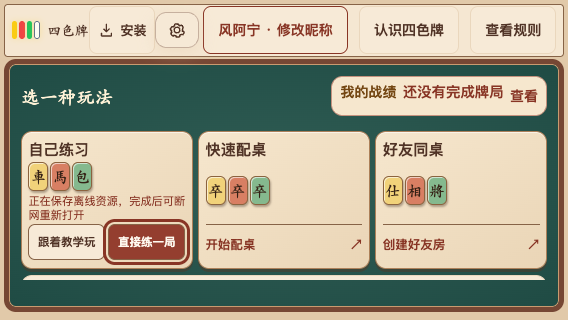
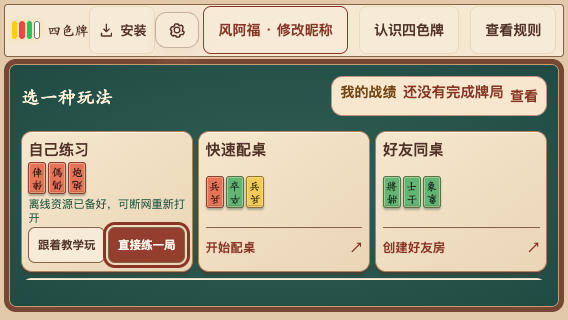
fix(lobby): show legal melds on double-ended paper cards (#102)
* fix(lobby): show legal same-color melds on double-ended paper cards

* test(ci): inject reconnect landings after the accepted room revision

diff --git a/client/src/components/LobbyPage.vue b/client/src/components/LobbyPage.vue
@@ -66,7 +66,9 @@
       <div v-if="modes.length" class="mode-grid">
         <article class="mode-card practice-card">
           <div class="mode-head"><strong>自己练习</strong><span>从容入门</span></div>
-          <div class="mode-tiles" aria-hidden="true"><i>車</i><i>馬</i><i>包</i></div>
+          <div class="mode-tiles" aria-hidden="true">
+            <CardComp v-for="card in meldExamples.jmp" :key="card.id" :card="card" preview mode="long" size="sm" />
+          </div>
           <p>跟着教学认识牌，或直接和电脑练一局</p>
           <small class="offline-readiness" :data-state="offlineReadinessState" data-testid="offline-readiness" role="status" aria-live="polite">{{ offlineReadinessLabel }}</small>
           <div class="practice-actions">
@@ -88,7 +90,10 @@
             <strong>{{ mode.name }}</strong>
             <span>{{ startPending && selectedMode === mode.id ? "正在进入…" : mode.badge }}</span>
           </div>
-          <div class="mode-tiles" aria-hidden="true"><i>{{ mode.id === 'quick_match' ? '卒' : '仕' }}</i><i>{{ mode.id === 'quick_match' ? '卒' : '相' }}</i><i>{{ mode.id === 'quick_match' ? '卒' : '將' }}</i></div>
+          <div class="mode-tiles" aria-hidden="true">
+            <CardComp v-for="card in mode.id === 'quick_match' ? meldExamples.zu3 : meldExamples.jsx"
+              :key="card.id" :card="card" preview mode="long" size="sm" />
+          </div>
           <p>{{ mode.description }}</p>
           <span class="mode-enter">{{ mode.id === "friends" ? "创建好友房" : mode.id === "quick_match" ? "开始配桌" : "直接练一局" }} <span aria-hidden="true">↗</span></span>
         </button>
@@ -473,6 +478,8 @@
 
 <script setup lang="ts">
 import { computed, nextTick, onUnmounted, ref, watch } from "vue";
+import CardComp from "./Card.vue";
+import { meldExamples } from "@/utils/cardExamples";
 import type { ScoringMode } from "@/types/game";
 
 type LobbyMode = {
@@ -1945,14 +1952,13 @@ function trapLeaveFocus(event: KeyboardEvent): void {
 .practice-actions button { flex: 1; min-width: 0; min-height: 42px; padding: .4rem; border: 1px solid var(--ui-border); border-radius: 7px; background: var(--ui-panel); color: var(--ui-text); font-weight: 700; cursor: pointer; }
 .practice-actions button:last-child { background: var(--ui-accent); color: #fffaf0; }
 .mode-tiles { display: flex; gap: 4px; margin: .35rem 0; }
-.mode-tiles i { display: grid; place-items: center; width: 30px; height: 45px; border: 1px solid #8b633f; border-radius: 9px; background: #f1d27a; color: #352115; box-shadow: inset 1px 1px #fff9, 1px 2px 2px #28170b55; font: bold 22px var(--skin-font, serif); font-style: normal; }
-.mode-tiles i:nth-child(2) { background: #d87f63; }
-.mode-tiles i:nth-child(3) { background: #85b98e; }
+.mode-tiles .card { width: 24px; height: 46px; border-radius: 3px; font-size: 16px; }
 :global(html[data-skin="puxian-house"] .lobby.mode-selection) { background: radial-gradient(ellipse at center, #315e55, #1f4b44) #1f4b44 !important; border: 5px solid #764734 !important; box-shadow: inset 0 0 0 1px #c99a70; }
 :global(html[data-skin="puxian-house"] .mode-selection .lobby-head h2) { color: #fff2d7; }
 :global(html[data-skin="puxian-house"] .mode-selection .lobby-kicker),
 :global(html[data-skin="puxian-house"] .mode-selection .lobby-rule-tip) { color: #e6d3b4; }
 :global(html[data-skin="puxian-house"] .mode-selection .mode-card) { background: linear-gradient(145deg, #f6e7ce, #ead5b6) #ead5b6; border: 1px solid #ac8059; box-shadow: inset 0 1px #fff9, 0 3px 0 #53352477; }
+:global(html[data-skin="puxian-house"] .mode-selection .practice-card) { --ui-success-text: #245b43; }
 :global(html[data-skin="puxian-house"] .mode-selection .mode-share-card) { background-color: #f6e7ce; }
 :global(html[data-skin="puxian-house"] .mode-selection .guest-profile-summary) { background: #f6e7ce; }
 :global(html[data-skin="puxian-house"] .mode-selection .repository-link) { color: #f6dfb8; }
@@ -1966,7 +1972,7 @@ function trapLeaveFocus(event: KeyboardEvent): void {
   .mode-selection .mode-grid { grid-template-columns: repeat(3, minmax(0, 1fr)); gap: .35rem; }
   .mode-selection .mode-card { min-height: 0; gap: .15rem; }
   .mode-selection .mode-tiles { margin: 0; gap: 2px; }
-  .mode-selection .mode-tiles i { width: 20px; height: 29px; font-size: 15px; border-radius: 6px; }
+  .mode-selection .mode-tiles .card { width: 18px; height: 32px; font-size: 11px; }
   .mode-selection .practice-actions { gap: .2rem; }
   .mode-selection .practice-actions button { min-height: 36px; padding: .2rem; font-size: .72rem; }
 }

diff --git a/tests/e2e/paper-sounds.spec.ts b/tests/e2e/paper-sounds.spec.ts
@@ -7,6 +7,7 @@ type SoundWindow = Window & {
   __siseLocalTest: {
     setupScenario: (scenario: string) => void;
     getRoomState: () => RoomStateSnapshot;
+    getDeferredChiDebug: () => { stateRevision: number };
     applyRoomSnapshot: (snapshot: Partial<RoomStateSnapshot>) => void;
   };
 };
@@ -100,20 +101,34 @@ test("the first authoritative reconnect snapshot establishes a silent sound base
     const state = bridge.getRoomState();
     const events = state.tableTransitions ?? [];
     const now = Date.now() + (state.presentationClockOffsetMs ?? 0);
+    // Identical public snapshots can advance the accepted revision without replacing the rendered state.
+    const stateRevision = bridge.getDeferredChiDebug().stateRevision + 1;
+    const eventId = (events.at(-1)?.id ?? 0) + 1;
     const card = { id: "paper-contact", color: "white", type: "zu" };
     bridge.applyRoomSnapshot({
-      stateRevision: state.stateRevision + 1,
+      stateRevision,
       serverNow: now,
       tableTransitions: [...events, {
-        id: (events.at(-1)?.id ?? 0) + 1, round: state.completedRounds + 1,
+        id: eventId, round: state.completedRounds + 1,
         kind: "discard", startsAt: now, endsAt: now + 700,
         moves: [{ card, from: { zone: "hand" }, to: { zone: "center" } }],
       }],
     });
+    const applied = bridge.getRoomState();
+    return {
+      stateRevision,
+      eventId,
+      appliedRevision: applied.stateRevision,
+      appliedEventId: applied.tableTransitions?.at(-1)?.id,
+    };
   });
-  await appendLanding(); // A retained public move arrives on the new connection.
+  const baseline = await appendLanding(); // A retained public move arrives on the new connection.
+  expect(baseline.appliedRevision).toBe(baseline.stateRevision);
+  expect(baseline.appliedEventId).toBe(baseline.eventId);
   await page.waitForTimeout(750);
   expect(await contactDurations(page)).toEqual([]);
-  await appendLanding(); // An actual subsequent move still sounds normally.
+  const next = await appendLanding(); // An actual subsequent move still sounds normally.
+  expect(next.appliedRevision).toBe(next.stateRevision);
+  expect(next.appliedEventId).toBe(baseline.eventId + 1);
   await expect.poll(() => contactDurations(page)).toEqual([85]);
 });

diff --git a/client/src/components/RulesGuide.vue b/client/src/components/RulesGuide.vue
@@ -38,18 +38,17 @@
 </template>
 <script setup lang="ts">
 import CardComp from './Card.vue';
-import type { Card } from '@/types/game';
+import { exampleCards, meldExamples } from '@/utils/cardExamples';
 defineProps<{ phase?: string }>();
-function cards(color: string, types: string[]): Card[] { return types.map((type, i) => ({ id: `${color}-${type}-${i}`, color, type })); }
 const examples = [
-  { title: '同色车马炮', valid: true, cards: cards('red', ['ju', 'ma', 'pao']), note: '三种字各一张，必须同色。' },
-  { title: '同色将士象', valid: true, cards: cards('green', ['jiang', 'shi', 'xiang']), note: '三种字各一张，必须同色。' },
-  { title: '不同色的卒', valid: true, cards: ['red', 'green', 'yellow'].map((color) => ({ id: color, color, type: 'zu' })), note: '三种或四种不同颜色的卒可以成组。' },
-  { title: '对子、坎、鱼', valid: true, cards: cards('white', ['ma', 'ma', 'ma', 'ma']), note: '同色同字：2 张是对子，3 张可作为坎，4 张可声明鱼。图中是鱼。' },
+  { title: '同色车马炮', valid: true, cards: meldExamples.jmp, note: '三种字各一张，必须同色。' },
+  { title: '同色将士象', valid: true, cards: meldExamples.jsx, note: '三种字各一张，必须同色。' },
+  { title: '不同色的卒', valid: true, cards: meldExamples.zu3, note: '三种或四种不同颜色的卒可以成组。' },
+  { title: '对子、坎、鱼', valid: true, cards: exampleCards('white', ['ma', 'ma', 'ma', 'ma']), note: '同色同字：2 张是对子，3 张可作为坎，4 张可声明鱼。图中是鱼。' },
   { title: '单张将、单张金条', valid: true, cards: [{ id: 'general', color: 'yellow', type: 'jiang' }, { id: 'gold', color: 'gold', type: 'gong' }], note: '每张可单独成组；不能主动弃掉。' },
   { title: '混色车马炮不能成架', valid: false, cards: [{ id: 'r', color: 'red', type: 'ju' }, { id: 'g', color: 'green', type: 'ma' }, { id: 'w', color: 'white', type: 'pao' }], note: '字齐了，颜色不一致也不行。' },
 ];
-const waitExample = cards('red', ['ju', 'ma', 'pao']);
+const waitExample = meldExamples.jmp;
 </script>
 <style scoped>
 .guide { display: grid; gap: 10px; }

diff --git a/tests/e2e/onboarding.spec.ts b/tests/e2e/onboarding.spec.ts
@@ -14,6 +14,18 @@ test("a fresh player chooses a table layout once and keyboard focus returns to t
   await expect(tutorial).toBeVisible();
   await expect(practice).toBeVisible();
   await expect(practice).toContainText("直接练一局");
+  const examples = [
+    { section: page.locator(".practice-card"), names: ["红俥", "红傌", "红炮"], colors: 1 },
+    { section: page.getByTestId("mode-friends"), names: ["绿將", "绿士", "绿象"], colors: 1 },
+    { section: page.getByTestId("mode-quick_match"), names: ["红兵", "绿卒", "黄兵"], colors: 3 },
+  ];
+  for (const { section, names, colors } of examples) {
+    const cards = section.locator(".mode-tiles [data-preview-card-id]");
+    await expect(cards.locator(".text-top")).toHaveText(names.map(name => name.slice(1)));
+    await expect(cards.locator(".text-bottom")).toHaveText(names.map(name => name.slice(1)));
+    expect(await cards.evaluateAll(faces => faces.map(face => face.getAttribute("aria-label")))).toEqual(names);
+    expect(await cards.evaluateAll(faces => new Set(faces.map(face => getComputedStyle(face).background)).size)).toBe(colors);
+  }
   await page.screenshot({ path: testInfo.outputPath("first-visit-568x320.png") });
   await page.setViewportSize({ width: 1440, height: 900 });
   await page.screenshot({ path: testInfo.outputPath("first-visit-1440x900.png") });

diff --git a/client/src/utils/cardExamples.ts b/client/src/utils/cardExamples.ts
@@ -1,0 +1,11 @@
+import type { Card } from "@/types/game";
+
+export function exampleCards(color: string, types: string[]): Card[] {
+  return types.map((type, index) => ({ id: `example-${color}-${type}-${index}`, color, type }));
+}
+
+export const meldExamples = {
+  jmp: exampleCards("red", ["ju", "ma", "pao"]),
+  jsx: exampleCards("green", ["jiang", "shi", "xiang"]),
+  zu3: ["red", "green", "yellow"].map(color => ({ id: `example-${color}-zu`, color, type: "zu" })),
+};

diff --git a/docs/validation/first-table-entry/README.md b/docs/validation/first-table-entry/README.md
@@ -3,3 +3,7 @@
 `first-table-hero.webp` 是本次为默认莆仙皮肤大厅标题区生成的原创图像：俯视墨青桌布、右侧扇形四色纸牌与牌背，供玩家选择玩法时使用；图中牌面仅作装饰，不代表实际牌局。原图由 ImageGen 根据下列提示生成，使用 `cwebp -resize 1600 0 -q 75` 转换，输出 74,908 字节。小屏隐藏横幅，保留纯色背景；图片纳入 PWA 预缓存。
 
 > An original high-end photographic game asset. Ultra-wide landscape banner composition, wide 3:1. Straight top-down crop of a real traditional Fujian four-colour thin Chinese paper-card table. Dark slate jade-teal fine woven cloth with beautiful warm diffuse sidelight. The LEFT 60 percent is entirely clean uninterrupted dark teal felt reserved for UI. On the RIGHT third only: pleasing diagonal fan of 4 narrow elongated paper game cards, red, ochre yellow, muted leafy green and warm ivory printed with single large antique Chinese chess characters 帥、仕、車、卒 and tiny ink red decorative dots, slightly offset/scuffed paper rims, next to a small neat squared stack of thin cinnabar-patterned paper backs. A narrow dark walnut table rail along the top-right edge and a hint of traditional carved corner brass detail. Art directed, natural fibers, ordinary thin paper not thick tiles, quiet matte surfaces. Camera strictly overhead. No text or heading apart from the printed cards, no UI, no people, no logos, no watermarks, no casino tokens or Mahjong tiles. Aim for a beautifully considered editorial still life. The right-hand fan fits entirely within the middle 50% of the height to allow crop in desktop header.
+
+## 大厅牌例
+
+三张玩法卡片与规则页共用同一组牌面示例。自己练习显示红俥、红傌、红炮；好友同桌显示绿將、绿士、绿象；快速配桌显示红兵、绿卒、黄兵。每张小牌沿用桌面的长牌双头字。可对照[手机横屏](first-visit-568x320.png)和[桌面截图](first-visit-1440x900.png)。
